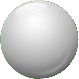
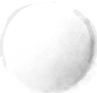
:lipstick: Add progressSpinner and cute chess stone image!

diff --git a/gobang-web/src/app/chess-board/chess-board.component.ts b/gobang-web/src/app/chess-board/chess-board.component.ts
@@ -1,5 +1,5 @@
 import {Component, OnInit} from '@angular/core';
-import {Game, GobangService} from '../gobang-service';
+import {GobangService} from '../gobang-service';
 import {BoardService} from '../board-service';
 import {GameMove, Team} from '../models';
 import {Howl} from 'howler';
@@ -37,6 +37,8 @@ export class ChessBoardComponent implements OnInit {
   public readonly thick = 8.7;
   private readonly selectImg: HTMLImageElement;
   private readonly chessBoardImg: HTMLImageElement;
+  private readonly whiteChessImg: HTMLImageElement;
+  private readonly blackChessImg: HTMLImageElement;
   private canvas: HTMLCanvasElement;
   private latestMousePos: Position;
   private gameRecords: GameMove[];
@@ -49,6 +51,10 @@ export class ChessBoardComponent implements OnInit {
     this.selectImg.src = 'assets/img/selected.png';
     this.chessBoardImg = new Image();
     this.chessBoardImg.src = 'assets/img/chessBoard.png';
+    this.blackChessImg = new Image();
+    this.blackChessImg.src = 'assets/img/black.png';
+    this.whiteChessImg = new Image();
+    this.whiteChessImg.src = 'assets/img/white.png';
     this.putChessSound = new Howl({src: ['assets/sound/putChess.mp3']});
   }
 
@@ -98,7 +104,7 @@ export class ChessBoardComponent implements OnInit {
     const clickX = clientMouseX - canvasRect.x;
     const clickY = clientMouseY - canvasRect.y;
     const pos = this.convertPixelToPos(clickX, clickY);
-    console.log(`Convert mouse pixels at (${clickY}, ${clickX}) to position (${pos.y}, ${pos.x})`);
+    // console.log(`Convert mouse pixels at (${clickY}, ${clickX}) to position (${pos.y}, ${pos.x})`);
     return pos;
   }
 
@@ -130,12 +136,11 @@ export class ChessBoardComponent implements OnInit {
       context.drawImage(this.selectImg, pixel.x - this.w / 2, pixel.y - this.h / 2, this.w, this.h);
     }
 
-    this.gameRecords.forEach(gameMove => this.renderGameRecord(gameMove));
+    this.gameRecords.forEach(gameMove => this.renderGameMove(gameMove));
   }
 
-  private renderGameRecord(gameMove: GameMove) {
-    const chessColor = gameMove.team === Team.WHITE ? '#ffffff' : '#000000';
-    this.drawCircle(chessColor, gameMove.row, gameMove.col);
+  private renderGameMove(gameMove: GameMove) {
+    this.drawChess(gameMove.team, gameMove.row, gameMove.col);
   }
 
   // Used for testing if the chess's position calculation is correct
@@ -149,7 +154,23 @@ export class ChessBoardComponent implements OnInit {
     }
   }
 
-  private drawCircle(color: string, row: number, col: number): void {
+  private drawChess(team: Team, row: number, col: number) {
+    const context = this.canvas.getContext('2d');
+    const img = team === Team.WHITE ? this.whiteChessImg : this.blackChessImg;
+    const pixel = this.convertPosToPixel(col, row);
+
+    // first draw the shadow
+    context.fillStyle = 'rgba(0,0,0,0.29)';
+    context.beginPath();
+    context.arc(pixel.x + 3, pixel.y + 4, 14, 0, 2 * Math.PI, true);
+    context.closePath();
+    context.fill();
+
+    // then draw the chess onto the shadow
+    context.drawImage(img, pixel.x - this.w / 2, pixel.y - this.h / 2, this.w, this.h);
+  }
+
+  private drawCircle(color: string, row: number, col: number) {
     const context = this.canvas.getContext('2d');
     context.fillStyle = color;
     context.beginPath();

diff --git a/gobang-web/src/app/app.module.ts b/gobang-web/src/app/app.module.ts
@@ -15,6 +15,8 @@ import {MessageService} from 'primeng';
 import {BrowserAnimationsModule} from '@angular/platform-browser/animations';
 import {ClipboardModule} from '@angular/cdk/clipboard';
 import {HttpGobangService} from './http-gobang-service';
+import { HashLocationStrategy, LocationStrategy  } from '@angular/common';
+import {ProgressSpinnerModule} from 'primeng/progressspinner';
 
 
 @NgModule({
@@ -27,6 +29,7 @@ import {HttpGobangService} from './http-gobang-service';
     ShareTheLinkComponent
   ],
   imports: [
+    ProgressSpinnerModule,
     ClipboardModule,
     BrowserAnimationsModule,
     ToastModule,
@@ -37,7 +40,8 @@ import {HttpGobangService} from './http-gobang-service';
   providers: [
     {provide: GobangService, useClass: HttpGobangService},
     {provide: BoardService, useClass: BoardService},
-    {provide: MessageService, useClass: MessageService}],
+    {provide: MessageService, useClass: MessageService},
+    {provide : LocationStrategy , useClass: HashLocationStrategy}],
   bootstrap: [AppComponent]
 })
 export class AppModule {

diff --git a/gobang-web/src/app/http-gobang-service.ts b/gobang-web/src/app/http-gobang-service.ts
@@ -10,6 +10,7 @@ import {map} from 'rxjs/operators';
   providedIn: 'root'
 })
 export class HttpGobangService implements GobangService {
+  private readonly domain = 'gobang-tw.herokuapp.com';
   game: Game;
   isHost = false;
   rxStomp: RxStomp = new RxStomp();
@@ -77,7 +78,7 @@ export class HttpGobangService implements GobangService {
 
   connect(): void {
     const config = new RxStompConfig();
-    config.brokerURL = 'ws://localhost:8080/gobang-websocket/websocket';
+    config.brokerURL = `wss://${this.domain}/gobang-websocket/websocket`;
     config.reconnectDelay = 200;
     if (this.rxStomp.active) {
       this.rxStomp.deactivate();
@@ -142,7 +143,7 @@ export class HttpGobangService implements GobangService {
   }
 
   private urlPrefix(path: string): string {
-    return `https://gobang-tw.herokuapp.com${path}`;
+    return `https://${this.domain}${path}`;
   }
 
   get errorObservable(): Observable<Error> {

diff --git a/gobang-web/src/app/home.component.html b/gobang-web/src/app/home.component.html
@@ -6,11 +6,14 @@
     <img alt="Chess Board Banner"
          id="chess-board-img"
          src="/assets/img/chessBoardBanner.png">
-    <button type="button"
-            (click)="createGame()" id="create-game-btn"
-            class="major-dark-btn">
-      Create Game
-    </button>
+    <div id="bottom-panel">
+      <button type="button"
+              (click)="createGame()" id="create-game-btn"
+              class="major-dark-btn">
+        Create Game
+        <p-progressSpinner id="spinner" [style]="{width: '30px', height: '30px'}" [strokeWidth]="'4px'" ></p-progressSpinner>
+      </button>
+    </div>
   </div>
 </div>
 

diff --git a/gobang-web/src/app/game.component.ts b/gobang-web/src/app/game.component.ts
@@ -14,8 +14,7 @@ export class GameComponent implements OnInit {
   ngOnInit(): void {
     console.log(`[GameComponent]: ngOnInit`);
     if (!this.gobangService.game) {
-      console.log(window.location.pathname.split('/')[2]);
-      const gameId = Number(window.location.pathname.split('/')[2]);
+      const gameId = Number(window.location.hash.split('/')[2]);
       console.log(`[GameComponent]: the game id is ${gameId}`);
       this.gobangService.joinGame(gameId)
         .subscribe(game => this.gobangService.connect());

diff --git a/gobang-web/src/app/home.component.ts b/gobang-web/src/app/home.component.ts
@@ -19,9 +19,12 @@ export class HomeComponent implements OnInit {
   }
 
   createGame() {
+    const spinner = document.getElementById('spinner');
+    spinner.style.display = 'inline';
     this.gobangService.createGame()
       .subscribe(game => {
           console.log('Routing to the game page.');
+          spinner.style.display = 'none';
           this.router.navigateByUrl(`game/${game.id}`);
         }
       );

diff --git a/gobang-web/src/app/home.component.css b/gobang-web/src/app/home.component.css
@@ -59,10 +59,6 @@
   z-index: 1;
 }
 
-#create-game-btn {
-  font-size: 40px;
-  z-index: 1;
-}
 
 /*RWD Adjustment*/
 @media all and (max-width: 1600px) {
@@ -83,3 +79,19 @@
   }
 }
 
+#bottom-panel {
+  display: flex;
+  align-items: center;
+}
+
+#spinner {
+  display: none;
+  margin-left: 15px;
+}
+
+#create-game-btn {
+  display: flex;
+  width: auto;
+  font-size: 40px;
+  z-index: 1;
+}
